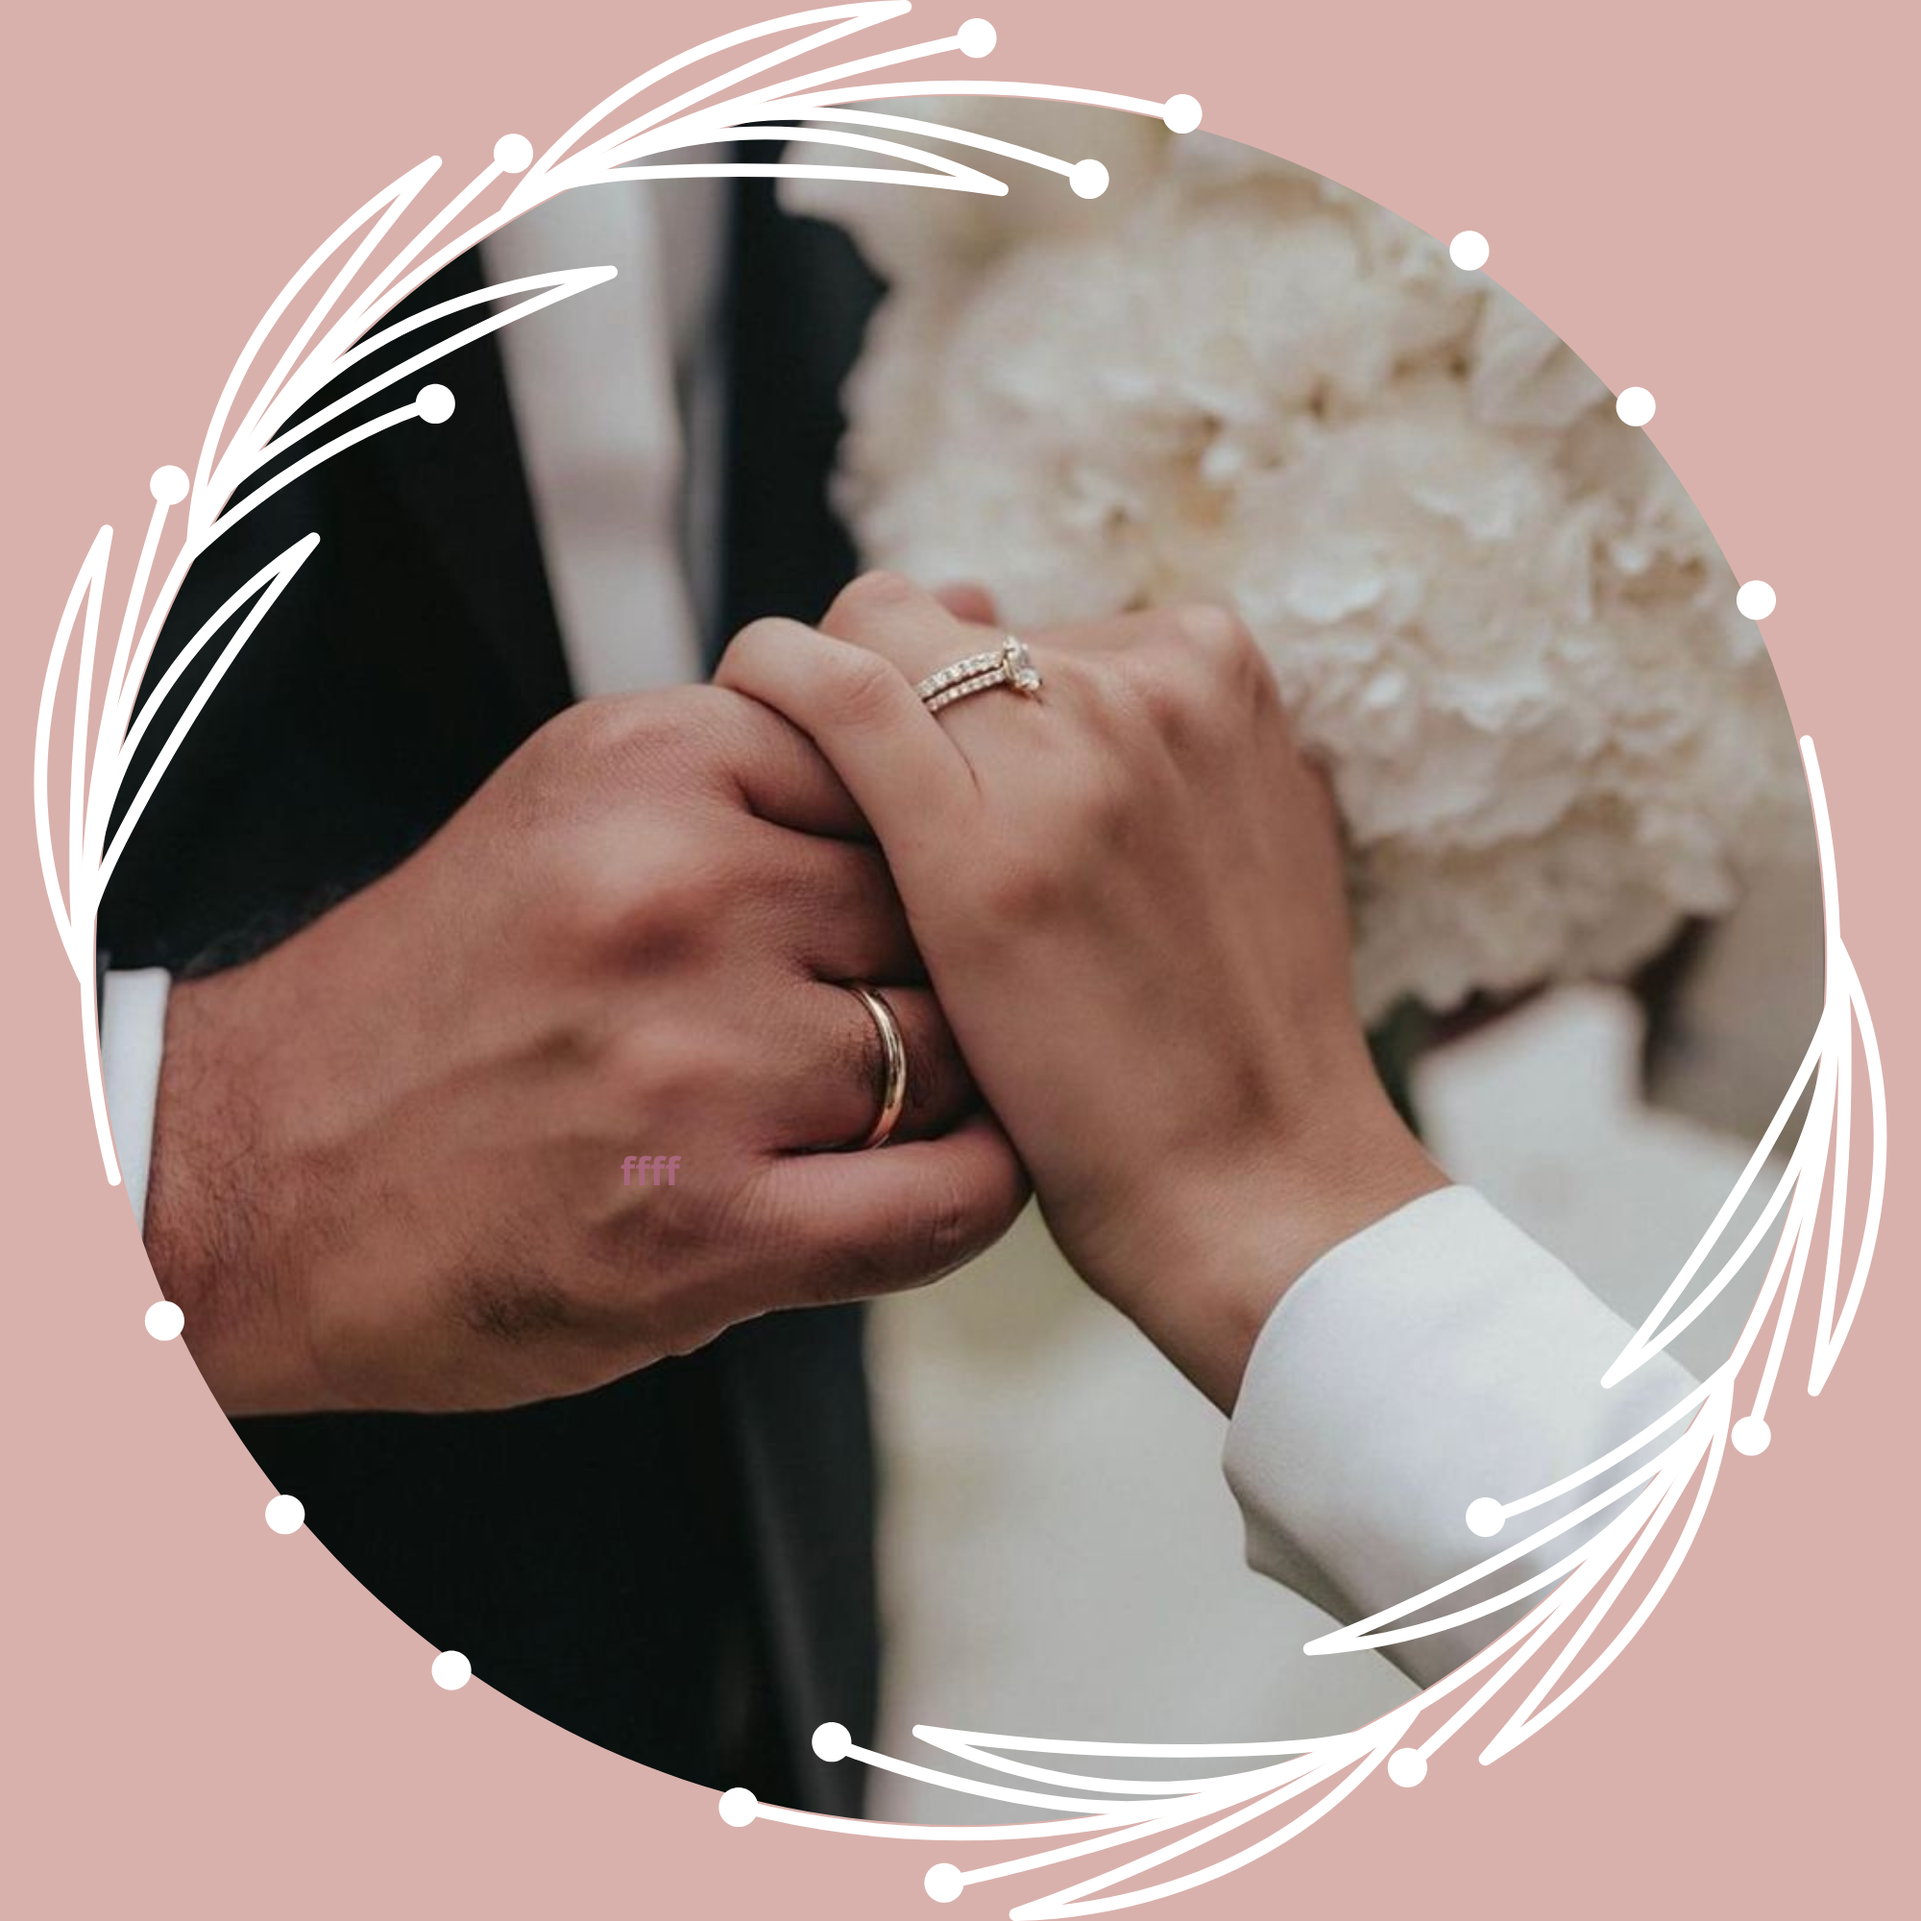
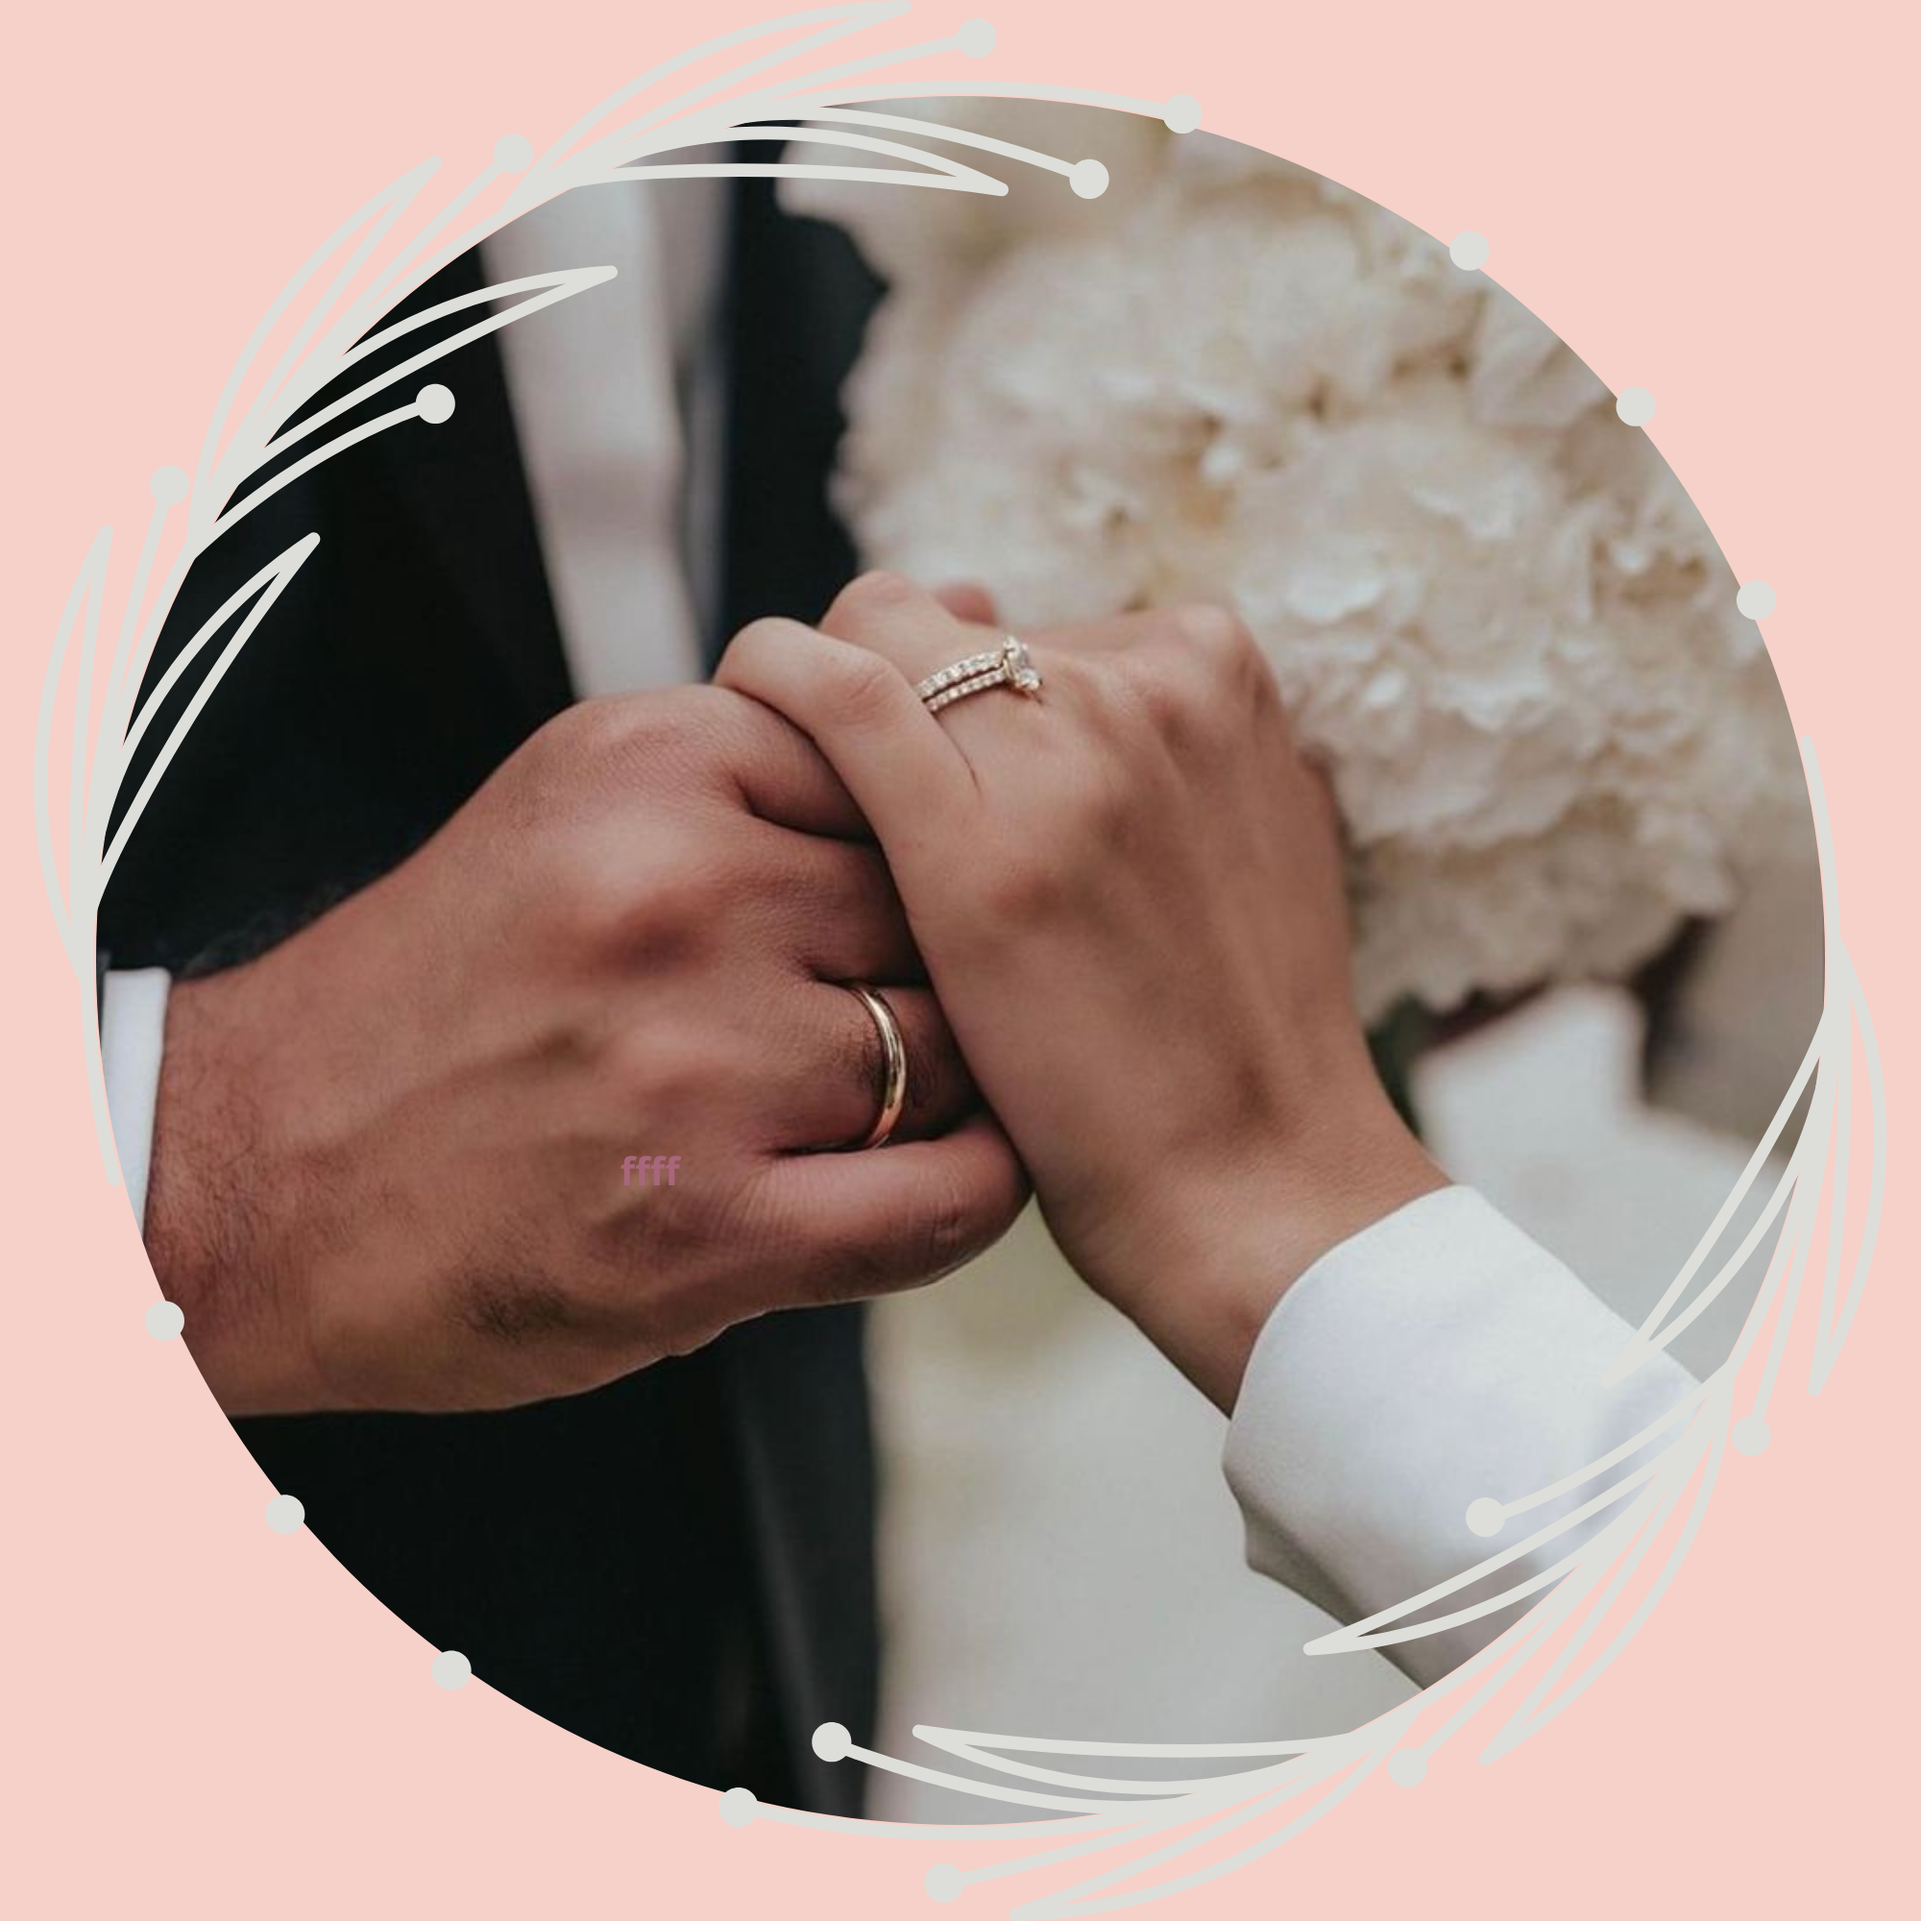
nine commit

diff --git a/inicio.html b/inicio.html
@@ -149,7 +149,7 @@
          <p id="textolibre" style="  font-family: 'Playfair Display', serif; font-size:15px; margin-top: -200px; text-shadow: 0px 1px 10px rgba(0,0,0,0.4);" class='tespero col-10 col-md-5 mb-5 text-center text-white' >El mejor tipo de amor es aquel que despierta el alma y nos hace aspirar a más, nos enciende el corazón y nos trae paz a la mente, y eso es lo que tú me has dado.</p> 
         </div> 
 
-<div class="row justify-content-center " style="margin: 0 auto; background-color:#d9b1ac ;">
+<div class="row justify-content-center " style="margin: 0 auto; background-color:#f6d1c9 ;">
 
          <p id="textolibre2" style="  font-family: 'Arapey', serif; font-weight: 400;font-style: normal; font-size:16px; color:#262a31; letter-spacing:3px; line-height: 1.2; font-weight: 700;" class='tespero col-10 col-md-7 mt-4 mb-4 text-left' >EXCLUSIVA: DOS ALMAS, UNA HISTORIA, Y UN GRAN "SÍ"</p> 
         </div> 
@@ -175,7 +175,7 @@
         <br><br>
         
 </div>
-<div class="container col-12" style="background-color:#d9b1ac "><br><br><br>
+<div class="container col-12" style="background-color:#f6d1c9 "><br><br><br>
     <h5 class='dondeyCuando col-12 col-lg-12 mt-0 mb-0 text-center' style="color:#262a31" >¿DÓNDE?</h5> 
         <div class="text-center "> 
         <img class="text-center col-5 col-md-3 ml-2" style="margin-bottom: -30px; z-index:1000" src="img/ornamenta2.png" > 
@@ -301,7 +301,7 @@
       
 </div>
 
-<div class="container col-12" style="background-color: #d9b1ac; margin-top: -10px;"><br><br><br>
+<div class="container col-12" style="background-color: #f6d1c9; margin-top: -10px;"><br><br><br>
       <h5 class='dondeyCuando col-12 col-lg-12 text-center  mb-0' style="color:#262a31; font-size:20px">CONFIRMAR ASISTENCIA</h5> 
       <div class="text-center "> 
         <img class="text-center col-5 col-md-3 mt-2 mb-4" src="img/ornamenta2.png" > 

diff --git a/css/demo003.css b/css/demo003.css
@@ -80,7 +80,7 @@ font-family: "Arapey", serif;
   font-style: normal;
 margin-top: -10px;
 margin-bottom: 15px;
-  color:#ddded9;
+  color:#fff;
   font-size: 40px;
 float:left;
 }
@@ -691,8 +691,8 @@ font-family: 'Open Sans', sans-serif;
   border-left: 2px solid #E5CA5E;
   border-color: #fff;
   color:black;
-  background-color: #d9b1ac;
-  outline: 15px solid #d9b1ac;
+  background-color: #f6d1c9;
+  outline: 15px solid #f6d1c9;
 
 }
 .mesaregalos{
@@ -711,7 +711,7 @@ font-family: 'Open Sans', sans-serif;
 .lluvia{
   
   color:#D6D0B4;
-  background-color: #d9b1ac;
+  background-color: #f6d1c9;
   
 }
 .boletos{
@@ -1566,7 +1566,7 @@ audio::-webkit-media-controls-volume-slider {
 .inicialesFoto{
   color:#BFB291;
  
-  background-color:#d9b1ac;
+  background-color:#f6d1c9;
   text-align: center;
    display:flex;
   justify-content: center;
@@ -1594,7 +1594,7 @@ audio::-webkit-media-controls-volume-slider {
 
     margin:0px 10px;
   width:50px;    
-  border-top:1.5px solid #ddded9;
+  border-top:1.5px solid #fff;
   position: relative;
   top:20px;
   float:left;
